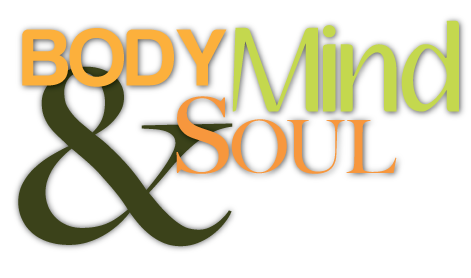
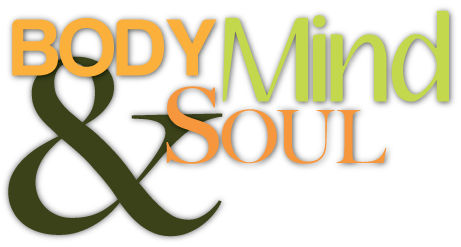
fixed home page image sizes and positions for faster loading

diff --git a/css/styles.css b/css/styles.css
@@ -105,21 +105,21 @@ a:active{
 }
 
 #spa{
-	top: -5px;
-	left: -647px;
+	top: 206px;
+	left: -581px;
 	position: relative;
 }
 
 #bms{
-	top: 45px;
-	left: -380px;
+	top: 55px;
+	left: -370px;
 	z-index: 1000;
 	position: relative;
 }
 
 #bamboo{
-	top: 3px;
-	left: -340px;
+	top: 108px;
+	left: -60px;
 	position: relative;
 }
 
